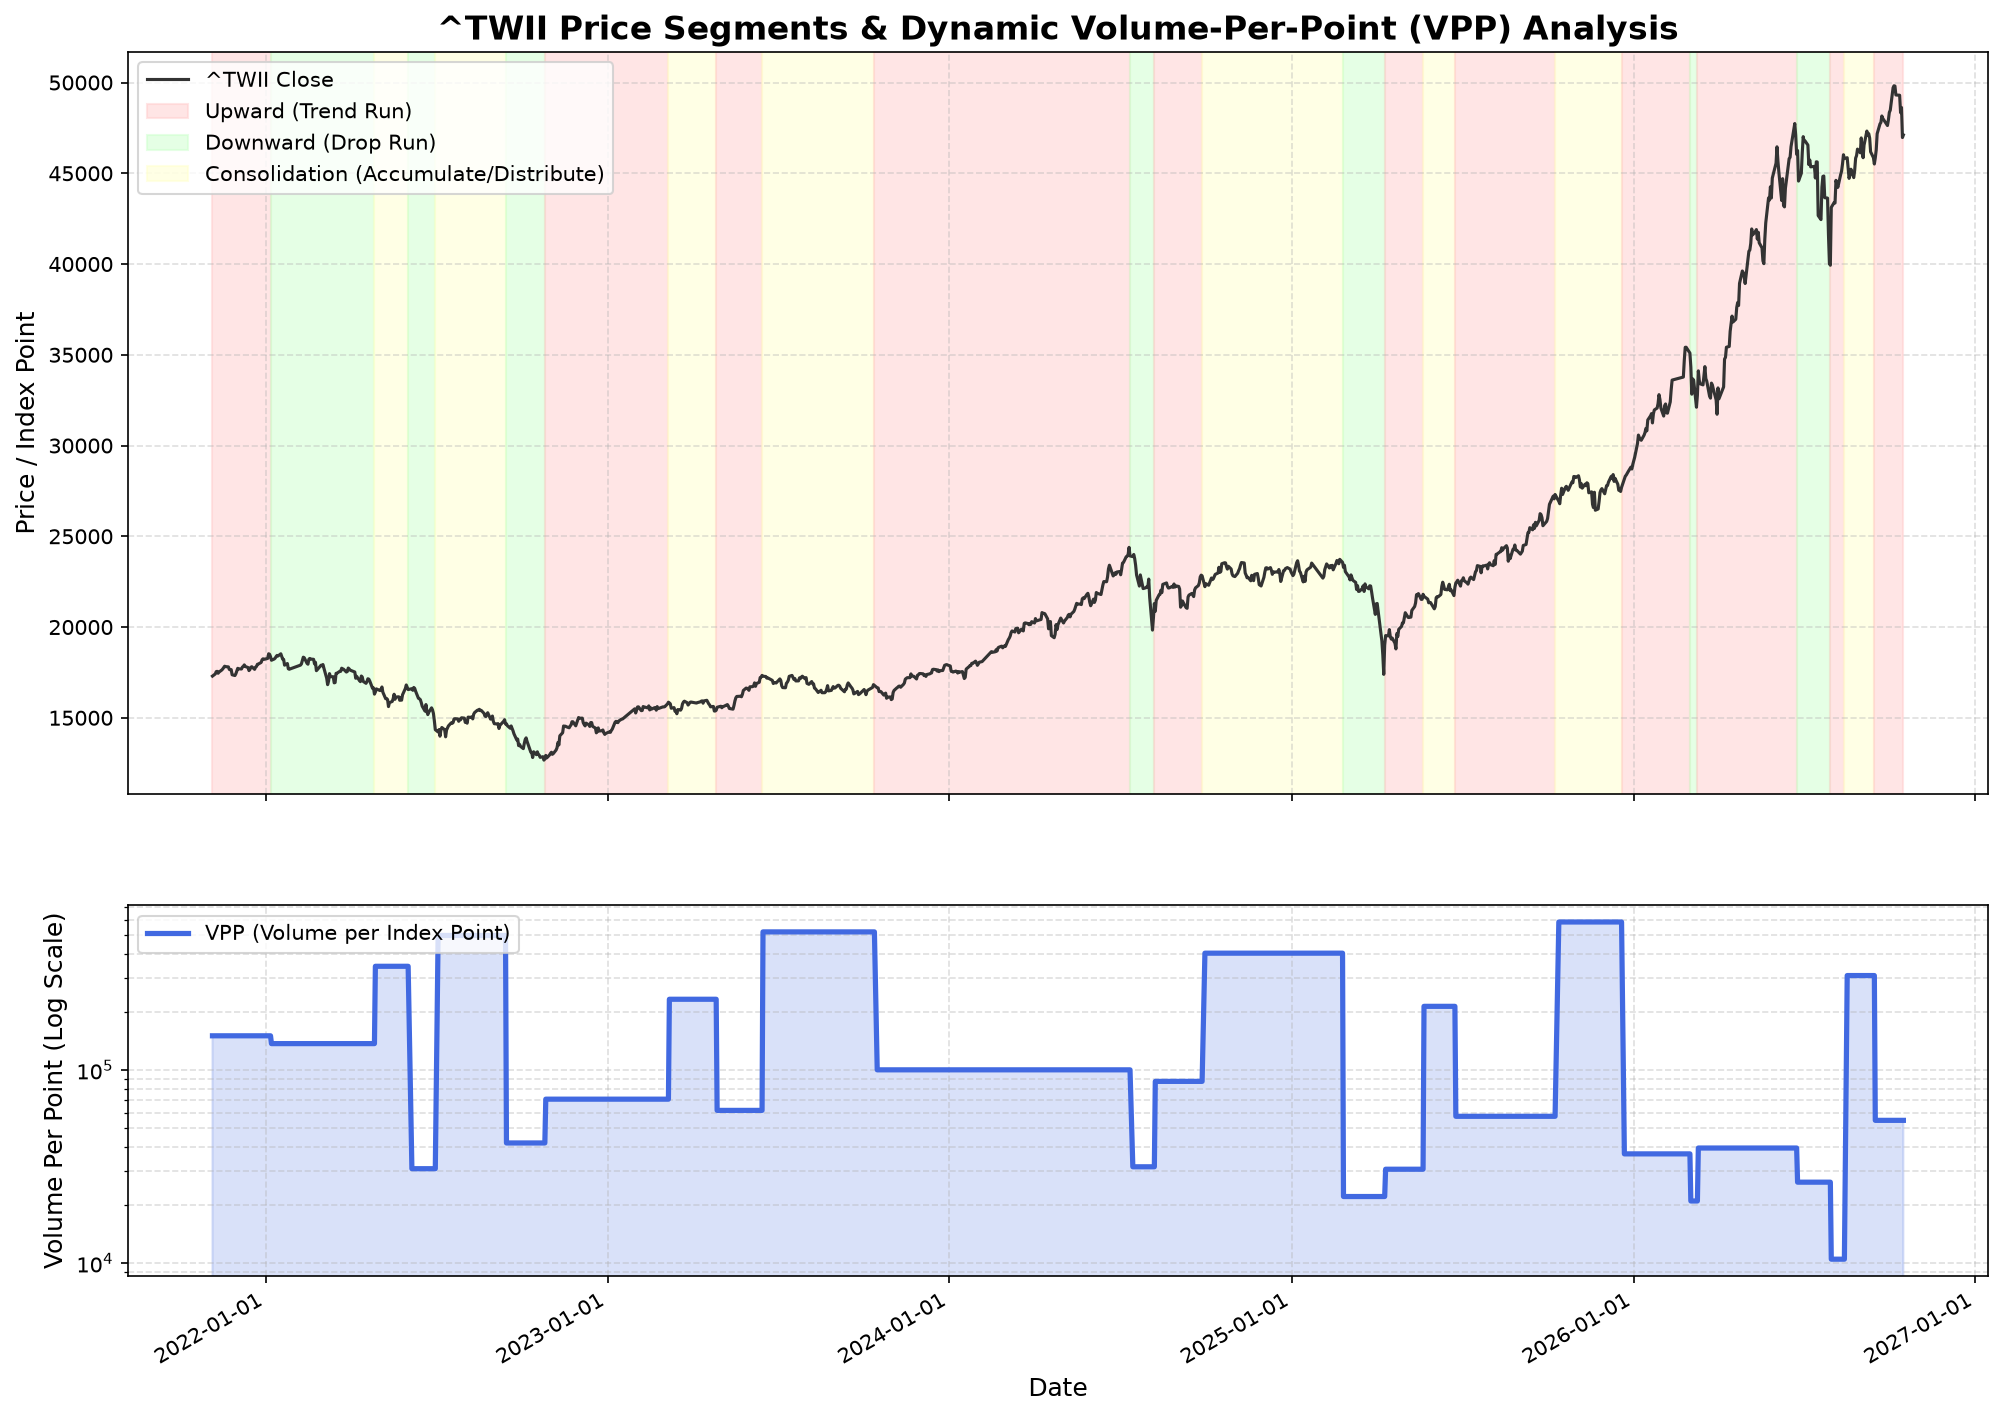
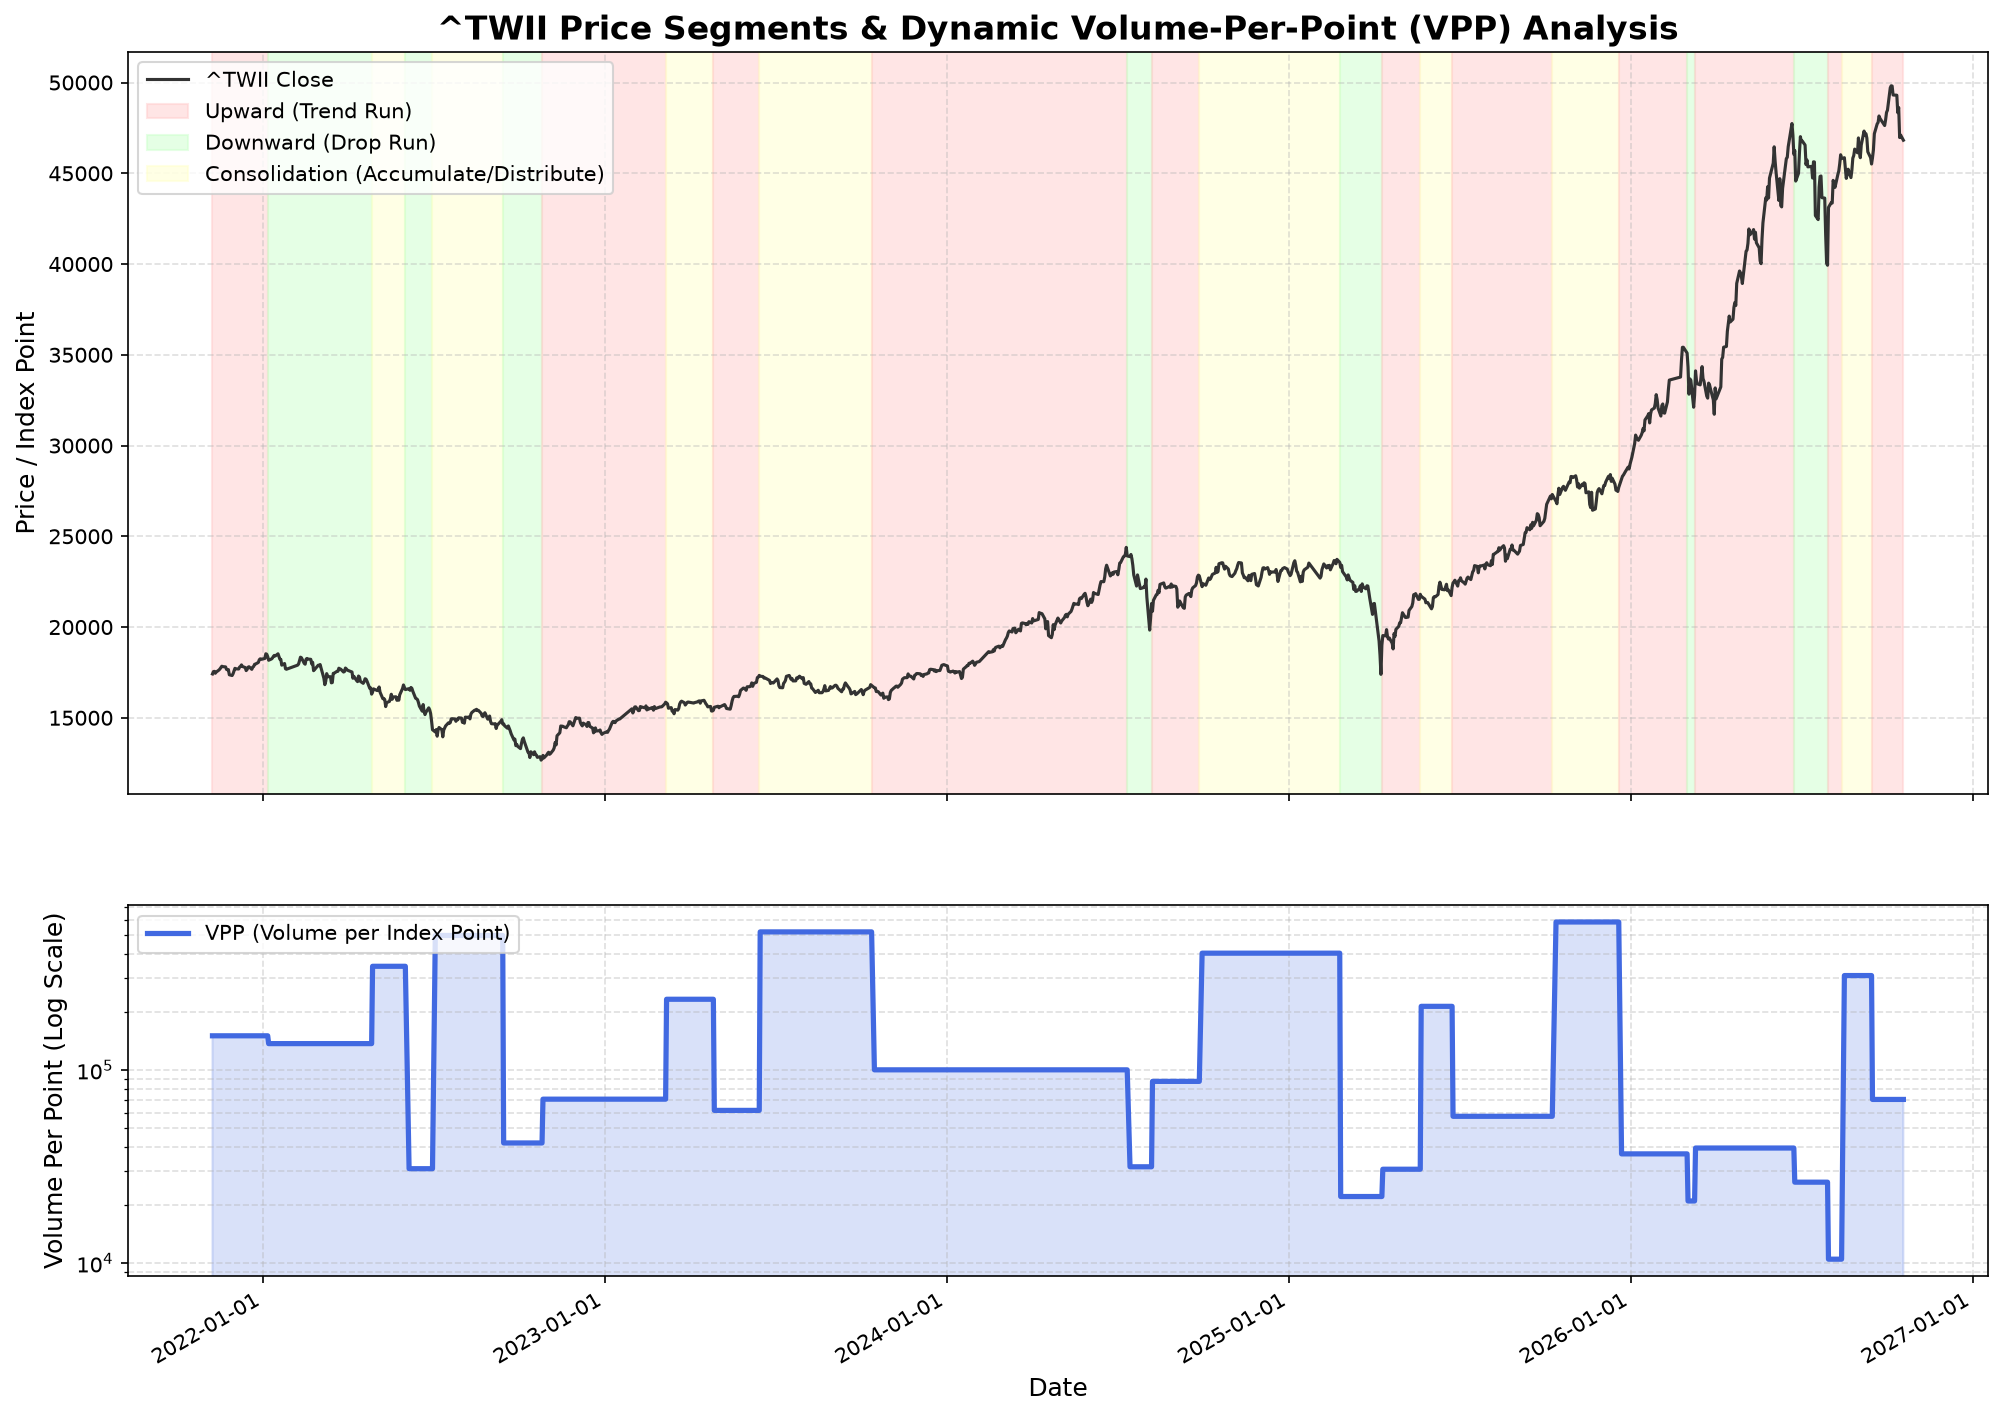
Auto-update momentum report & analysis (2026-10-19)

diff --git a/momentum.html b/momentum.html
@@ -53,7 +53,7 @@
                     <i class="fa-solid fa-bolt text-red-500"></i> 台股量價動能趨勢預估報告
                 </h1>
                 <p class="text-sm text-gray-400 mt-1">
-                    標的：加權指數 (^TWII) ｜ 模型：量價效率與波動對稱預估模型 ｜ 更新日期：2026-10-16
+                    標的：加權指數 (^TWII) ｜ 模型：量價效率與波動對稱預估模型 ｜ 更新日期：2026-10-19
                 </p>
             </div>
             <div class="flex items-center gap-3">
@@ -111,14 +111,14 @@
 【^TWII】【^TWII】量價效率與波動對稱動能模型 (改良版改良成果)
 ================================================================================
 【1. 量價效率分析 (Volume-Per-Point, VPP)】
-  * 上漲波段: 平均移動 1 點需消耗 92,996 股之成交量
+  * 上漲波段: 平均移動 1 點需消耗 93,815 股之成交量
   * 下跌波段: 平均移動 1 點需消耗 93,280 股之成交量
   * 盤整波段: 平均移動 1 點需消耗 1,376,197 股之成交量
-  * 💡 學術結論：盤整段之 VPP 為上漲段的 14.8 倍、下跌段的 14.8 倍，極端證明了盤整區確實是高摩擦力的「籌碼吸納/主力出貨期」！
+  * 💡 學術結論：盤整段之 VPP 為上漲段的 14.7 倍、下跌段的 14.8 倍，極端證明了盤整區確實是高摩擦力的「籌碼吸納/主力出貨期」！
 --------------------------------------------------------------------------------
 【2-A. 波動等幅對稱分析 (二波段等幅規律 - 上漲趨勢)】
   * 樣本數: 18 次對接波段
-  * 平均等幅比率 (後波幅 / 前波幅): 136.93%
+  * 平均等幅比率 (後波幅 / 前波幅): 136.69%
   * 波動等幅對稱符合度 (漲跌幅在 80%~125% 內比例): 22.22%
 --------------------------------------------------------------------------------
 【2-B. 波動等幅對稱分析 (二波段等幅規律 - 下跌趨勢)】
@@ -133,16 +133,16 @@
 ================================================================================
 
   [短線動能預警 (3% 領先燈號)]
-  * 短線波段狀態: 短線止跌上漲
-  * 短線轉折日期: 2026-10-15 (基準價 46,795.38)
-  * 短線累計漲跌: +0.68%
-  * 短線持續天數: 1 天
+  * 短線波段狀態: 短線拉回下跌
+  * 短線轉折日期: 2026-10-15 (基準價 48,382.75)
+  * 短線累計漲跌: -3.23%
+  * 短線持續天數: 2 天
 --------------------------------------------------------------------------------
 【4. 波段機率落點與資金規劃分析 (Probabilistic Target &amp; Capital Planning)】
   * 目前波段型態: 【上漲趨勢波段】
   * 本波段起始點: 45,511.49 (2026-09-15)
   * 前一波上漲段幅: 14.72% (對稱基準點)
-  * 當前最新收盤價: 47,111.26 (目前漲幅: 3.52%, 目前對稱比率: 23.91%)
+  * 當前最新收盤價: 46,822.08 (目前漲幅: 2.88%, 目前對稱比率: 19.57%)
 
   * 💡 歷史波段對稱性機率落點與勝率列表 (Win Rate Targets):
     -----------------------------------------------------------------------------------------------
@@ -161,9 +161,9 @@
     -----------------------------------------------------------------------------------------------
 
   * 🛠 資金與曝險規劃建議 (Capital Planning Advice):
-    1. 【高勝率安全帶 (80%-100% 勝率)】: 點位約在 46,641.43 ~ 47,946.39。目前收盤價 (47,111.26) 正處於此區間內，已順利突破 100% 勝率點 (46,641.43)，正在向 80% 勝率關卡 (47,946.39) 推進。
+    1. 【高勝率安全帶 (80%-100% 勝率)】: 點位約在 46,641.43 ~ 47,946.39。目前收盤價 (46,822.08) 正處於此區間內，已順利突破 100% 勝率點 (46,641.43)，正在向 80% 勝率關卡 (47,946.39) 推進。
        - 此區間為極安全的初始建倉區。若未來拉回至此，為高期望值的加碼點。
-    2. 【中勝率成熟帶 (50%-70% 勝率)】: 點位約在 47,946.39 ~ 53,606.08。最新收盤價 (47,111.26) 尚未到達此區間起點 (47,946.39)。
+    2. 【中勝率成熟帶 (50%-70% 勝率)】: 點位約在 47,946.39 ~ 53,606.08。最新收盤價 (46,822.08) 尚未到達此區間起點 (47,946.39)。
        - 目前波段仍在初期/中前期發展中，可維持既有多頭部位並將防守停損設定於起始點附近。
     3. 【低勝率高利潤帶 (10%-40% 勝率)】: 目標點位在 53,606.08 ~ 57,365.60 以上。目前價格尚未到達此區域。
        - 若市場動能極強，向 40% 或 30% 邁進，應逐步調降部位曝險比例，降低槓桿以防範隨時可能的急跌拉回。
@@ -171,11 +171,11 @@
   * 🚀 【上漲波段目標預估 (對稱性與極限值)】
     1. 預估上漲極限高點：
        * 依歷史極限漲幅 (+42.51%) 投影，本波上漲【天花板目標為：64,858.42 點】。
-       * 目前狀態：目前距離天花板僅剩約 37.67% 的空間。
+       * 目前狀態：目前距離天花板僅剩約 38.52% 的空間。
     2. 時間長度預估：
        * 歷史極限上漲天數：182 天。
-       * 目前已持續：20 天。
-       * 預估本波剩餘時間：【約 162 個交易日】。
+       * 目前已持續：21 天。
+       * 預估本波剩餘時間：【約 161 個交易日】。
     3. 隨後修正幅度預估（一旦確認觸頂進入下跌段）：
        * 預估基準點（本波至今最高收盤價）：49,822.55 點
        * 溫和修正路徑 (歷史平均 -9.92%)：預估修正低點約為 44,879.09 點。
